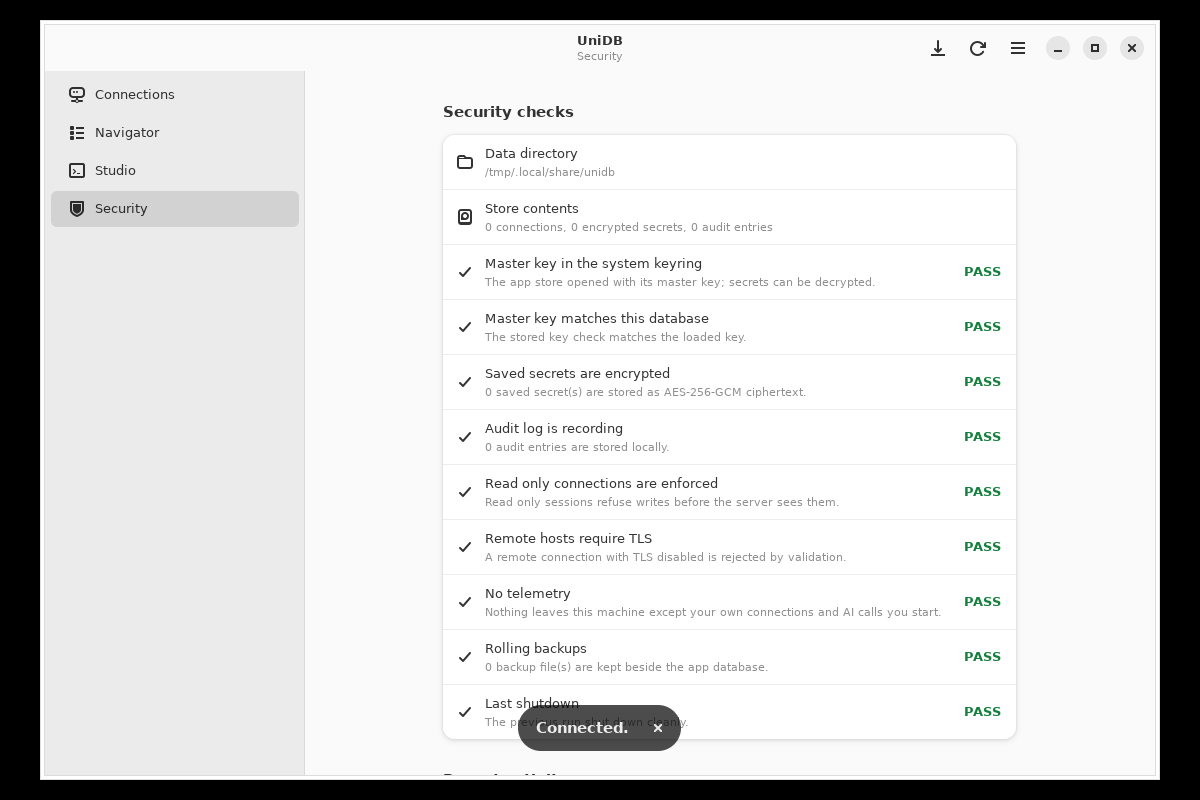
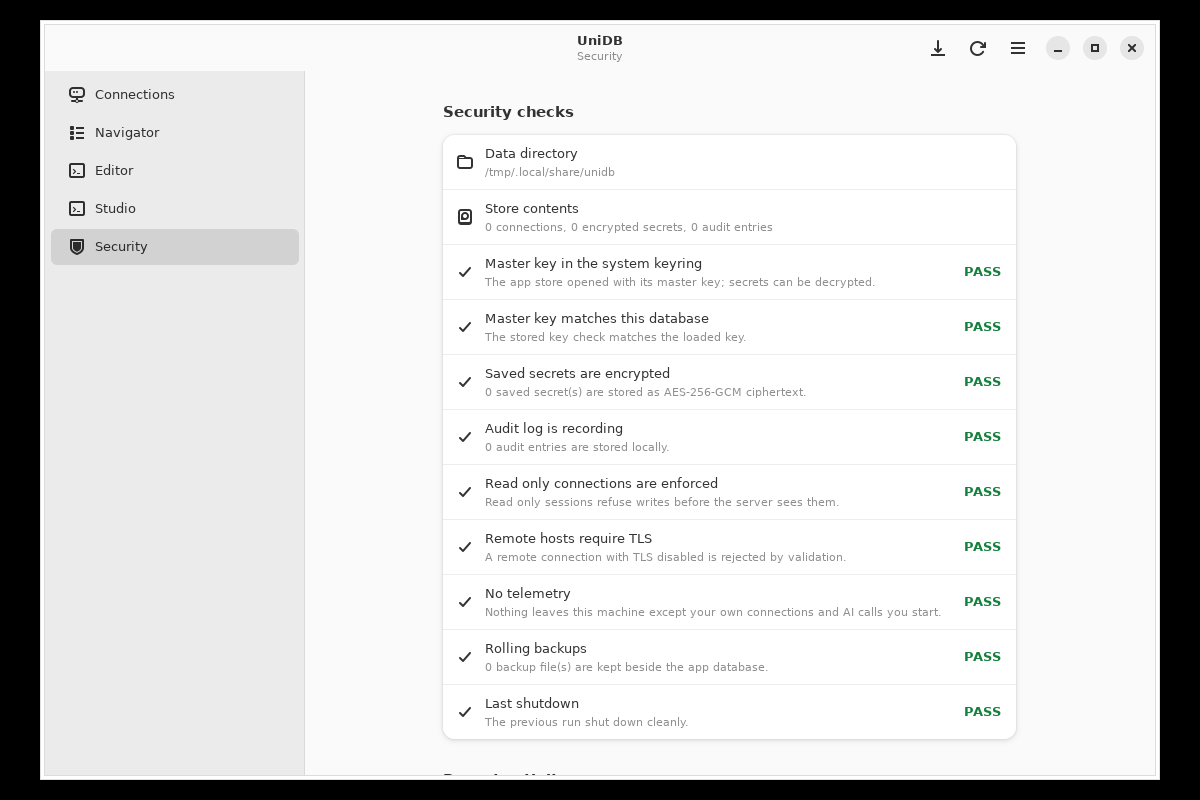
docs(scope): record SQL editor progress and evidence

Changed region(s): [[0.0308, 0.1875, 0.2467, 0.3438], [0.4317, 0.875, 0.5858, 0.9375]]

diff --git a/docs/scope/scope.md b/docs/scope/scope.md
@@ -11,6 +11,7 @@ UniDB is a native Linux desktop database studio. This file tracks what is being 
 | 3 | App store and security screens | in-progress | [0003](../specs/0003-app-store-security.md) |
 | 4 | Design system and app shell | in-progress | [0004](../specs/0004-design-system-shell.md) |
 | 5 | Connection manager and navigator | in-progress | [0005](../specs/0005-connection-manager.md) |
+| 6 | SQL editor and result grid | in-progress | [0006](../specs/0006-sql-editor.md) |
 
 ## Features
 
@@ -89,6 +90,25 @@ UniDB is a native Linux desktop database studio. This file tracks what is being 
   - [x] Navigator: schema contract on all nine engines, live SQL family tests, and the connection, database, and table browser verified with a seeded table screenshot
 - [ ] Verify it: /check verify Connection manager and navigator
 - [ ] Test it: /test Connection manager and navigator
+
+### 6. SQL editor and result grid
+
+**Intent**: The working surface. A GtkSourceView SQL editor over live connections, Run and Cancel through the connection actor, a result grid over the shared value model with null styling and truncation notes, a status line with rows and timing, error feedback, and history plus audit entries for every run.
+
+**Done when**: a user picks a live connection, writes SQL with highlighting, runs it with the button or Ctrl+Enter, sees typed results in the grid with timings, can clear results, sees errors without losing SQL, and every run lands in history and audit.
+
+- [x] Decide the editor and result grid (spec): [0006](../specs/0006-sql-editor.md)
+- [ ] Build it: /develop SQL editor and result grid
+  - [x] GtkSourceView SQL editor with syntax highlighting, monospace, line numbers, and Ctrl+Enter
+  - [x] Live connection selector, Run, Cancel, and Clear results with responsive busy state
+  - [x] Result grid over the shared value model with headers, types, null styling, 500 row cap, truncation notice, and row and column timing status
+  - [x] Error state that keeps the statement and shows the safe engine message
+  - [x] Query cancel through the actor, unsupported engines reported honestly, headless tests for cancel and audit
+  - [x] Query audit entries with outcome, elapsed time, and rows
+  - [x] Verified with a seeded SQLite query in the container screenshot
+- [ ] Follow up: virtualized grid, multi tab editor, cell copy, EXPLAIN
+- [ ] Verify it: /check verify SQL editor and result grid
+- [ ] Test it: /test SQL editor and result grid
 
 ## Deferred
 
